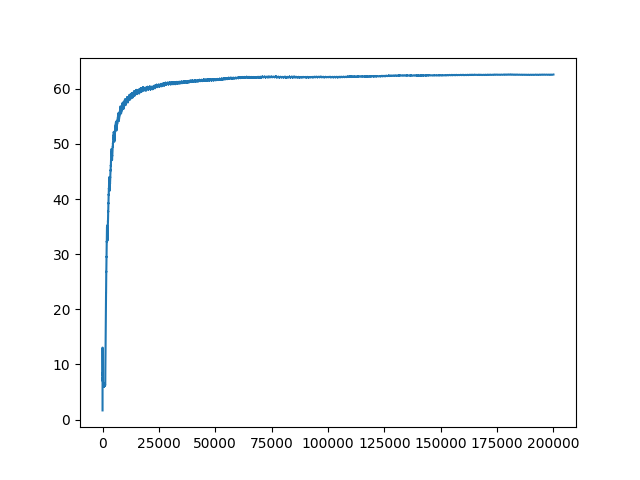
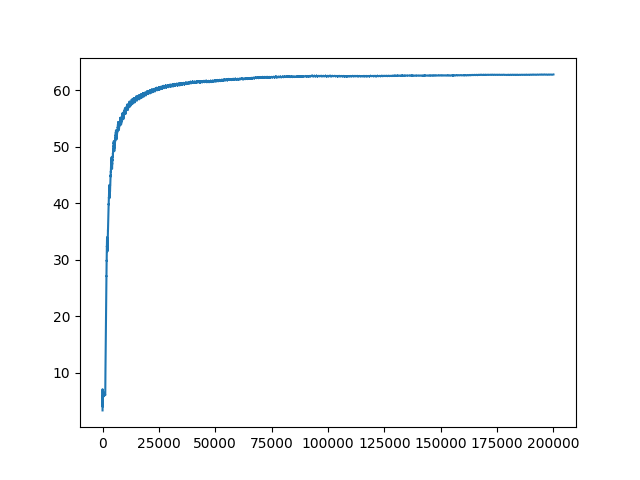
1111

diff --git a/scripts/ddpg.py b/scripts/ddpg.py
@@ -16,17 +16,20 @@ class DDPG(object):
         self.nb_states = nb_states
         self.nb_actions = nb_actions
 
+        self.device = torch.device('cuda' if torch.cuda.is_available() else 'cpu')
+        print(f'Working on {self.device}')
+
         self.actor = Actor(self.nb_states-1, 1)
         self.actor_target = Actor(self.nb_states-1, 1)
-        self.actor_optim = Adam(self.actor.parameters(), lr=0.001)
+        self.actor_optim = Adam(self.actor.parameters(), lr=0.00001)
 
         self.critic = Critic(self.nb_states, self.nb_actions)
         self.critic_target = Critic(self.nb_states, self.nb_actions)
-        self.critic_optim = Adam(self.critic.parameters(), lr=0.001)
+        self.critic_optim = Adam(self.critic.parameters(), lr=0.00001)
 
         hard_update(self.actor_target, self.actor)
         hard_update(self.critic_target, self.critic)
-
+ 
         self.memory = SequentialMemory(limit=1000000, window_length=1)
         self.random_process = OrnsteinUhlenbeckProcess(size=nb_actions, theta=0.15, mu=0, sigma=0.01)
 
@@ -43,39 +46,38 @@ class DDPG(object):
         self.a_t = None
         self.is_training = True
 
-        if torch.cuda.is_available():
-            self.actor.cuda()
-            self.actor_target.cuda()
-            self.critic.cuda()
-            self.critic_target.cuda()
+        self.actor.to(self.device)
+        self.actor_target.to(self.device)
+        self.critic.to(self.device)
+        self.critic_target.to(self.device)
     
     def update_policy(self):
         state_batch, action_batch, Lagrangian_batch, next_state_batch, _ = self.memory.sample_and_split(self.batch_size)
         
         next_q_values = self.critic_target([
-            to_tensor(next_state_batch, volatile=True),
-            self.actor_target(to_tensor(next_state_batch[:, 1:], volatile=True))
+            to_tensor(next_state_batch, volatile=True, device=self.device),
+            self.actor_target(to_tensor(next_state_batch[:, 1:], volatile=True, device=self.device))
         ])
         next_q_values.volatile = False
         ref_values = self.critic_target([
-            to_tensor(self.ref_state_batch, volatile=True),
-            self.actor_target(to_tensor(self.ref_state_batch[:, 1:], volatile=True))
+            to_tensor(self.ref_state_batch, volatile=True, device=self.device),
+            self.actor_target(to_tensor(self.ref_state_batch[:, 1:], volatile=True, device=self.device))
         ])
         ref_values.volatile = False
 
-        target_q_batch = to_tensor(Lagrangian_batch) + next_q_values - ref_values
+        target_q_batch = to_tensor(Lagrangian_batch, device=self.device) + next_q_values - ref_values
 
         self.critic.zero_grad()
-        q_batch = self.critic([to_tensor(state_batch), to_tensor(action_batch)])
+        q_batch = self.critic([to_tensor(state_batch, device=self.device), to_tensor(action_batch, device=self.device)])
 
         value_loss = criterion(q_batch, target_q_batch)
         value_loss.backward()
         self.critic_optim.step()
 
         self.actor.zero_grad()
-        policy_loss = -self.critic([
-            to_tensor(state_batch),
-            self.actor(to_tensor(state_batch[:, 1:]))
+        policy_loss = self.critic([
+            to_tensor(state_batch, device=self.device),
+            self.actor(to_tensor(state_batch[:, 1:], device=self.device))
         ])
 
         policy_loss = policy_loss.mean()
@@ -117,7 +119,7 @@ class DDPG(object):
         if decay_epsilon:
             self.epsilon -= self.depsilon
         
-        return action
+        return action, threshold
 
     def reset(self, s_t):
         self.s_t = s_t

diff --git a/scripts/train.py b/scripts/train.py
@@ -8,6 +8,7 @@ from utils import *
 from ddpg import DDPG
 
 def train(mbs:Macro_Base_Station, arr_cp:list[Content_Provider], config):
+    device = torch.device('cuda' if torch.cuda.is_available() else 'cpu')
     sum_AoI = 0
     arr_AAoI = []
     num_update = 0
@@ -20,13 +21,15 @@ def train(mbs:Macro_Base_Station, arr_cp:list[Content_Provider], config):
         num_episode = config.config['num_episode'] # 200
         num_time_slot_in_episode = config.config['num_time_slot_in_episode'] # 1000
         episode_lagrangian = 0
+        episode_threshold = 0
         while episode < num_episode:
             sum_AoI += cp.age * cp.user_request_queue[0]
             arr_AAoI.append(sum_AoI / ((episode * num_time_slot_in_episode + episode_slot + 1) * cp.arrival_rate))
 
             current_state = [cp.age] + cp.user_request_queue
             if episode > 0 and episode_slot > config.config['warmup']:
-                update_flag = cp.agent.select_action(current_state, False)
+                update_flag, threshold = cp.agent.select_action(current_state, False)
+                episode_threshold += threshold
             else:
                 update_flag = cp.agent.random_action()
             if update_flag == 0:
@@ -45,10 +48,12 @@ def train(mbs:Macro_Base_Station, arr_cp:list[Content_Provider], config):
             episode_lagrangian += Lagrangian
             if episode_slot == num_time_slot_in_episode:
                 avg_Lagrangian = episode_lagrangian / num_time_slot_in_episode
-                print(f'Episode: {episode}, Average Lagrangian: {avg_Lagrangian}')
+                avg_threshold = episode_threshold / num_time_slot_in_episode
+                print(f'Episode: {episode}, Average Lagrangian: {avg_Lagrangian}, Average Threshold: {avg_threshold}')
 
                 episode += 1
                 episode_lagrangian = 0
+                episode_threshold = 0
                 episode_slot = 0
     
     return arr_AAoI, num_update / (num_episode * num_time_slot_in_episode)

diff --git a/scripts/model.py b/scripts/model.py
@@ -31,11 +31,17 @@ class Actor(nn.Module):
     def forward(self, x):
         out = self.fc1(x)
         out = self.relu(out)
+        out_first = out
         out = self.fc2(out)
         out = self.relu(out)
+        out_second = out
         out = self.fc3(out)
         out = self.tanh(out)
+        out_tanh = out
         out = out * 25 + 25
+
+        # print(f'Out_First: {out_first}, Out_Second: {out_second}, Out_Tanh: {out_tanh}, Out: {out}')
+
         return out
 
 
@@ -62,4 +68,6 @@ class Critic(nn.Module):
         out = self.fc2(torch.cat([out, a], 1))
         out = self.relu(out)
         out = self.fc3(out)
+        out = self.relu(out)
+        out = self.fc4(out)
         return out

diff --git a/scripts/utils.py b/scripts/utils.py
@@ -7,10 +7,10 @@ FLOAT = torch.cuda.FloatTensor if USE_CUDA else torch.FloatTensor
 def to_numpy(var):
     return var.cpu().data.numpy() if USE_CUDA else var.data.numpy()
 
-def to_tensor(ndarray, volatile=False, requires_grad=False, dtype=FLOAT):
+def to_tensor(ndarray, volatile=False, requires_grad=False, dtype=FLOAT, device=None):
     return Variable(
         torch.from_numpy(ndarray), volatile=volatile, requires_grad=requires_grad
-    ).type(dtype)
+    ).type(dtype).to(device)
 
 def hard_update(target, source):
     for target_param, param in zip(target.parameters(), source.parameters()):
